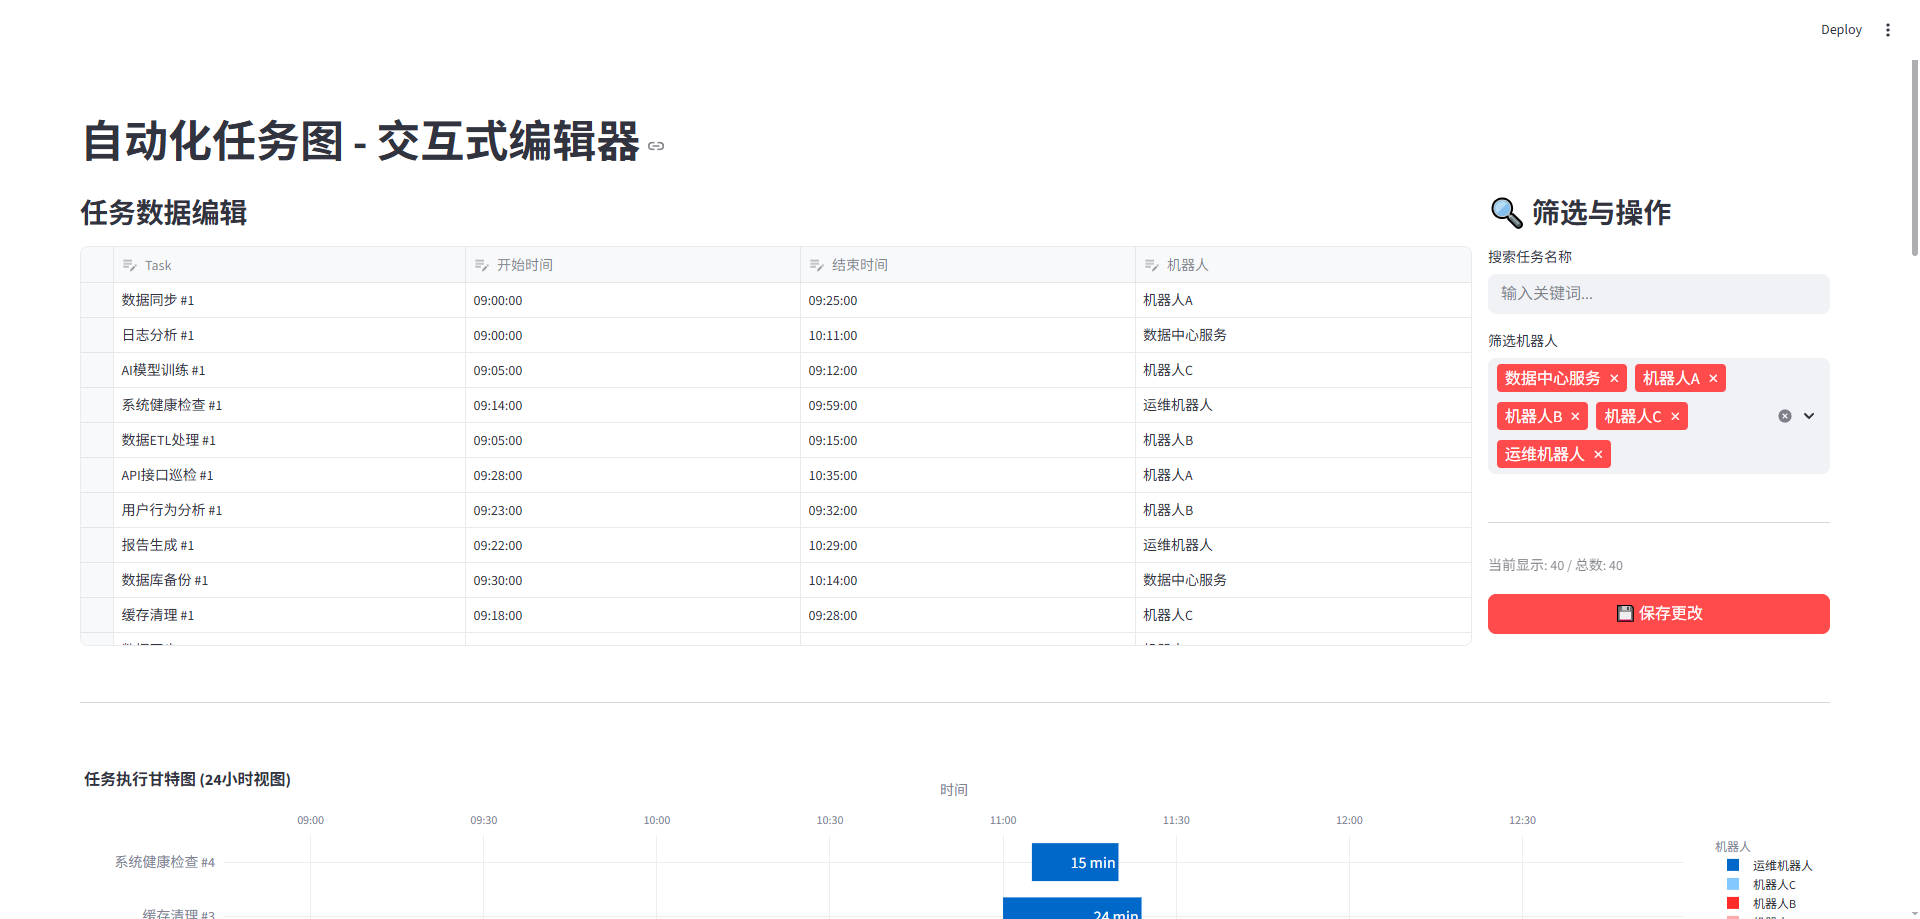
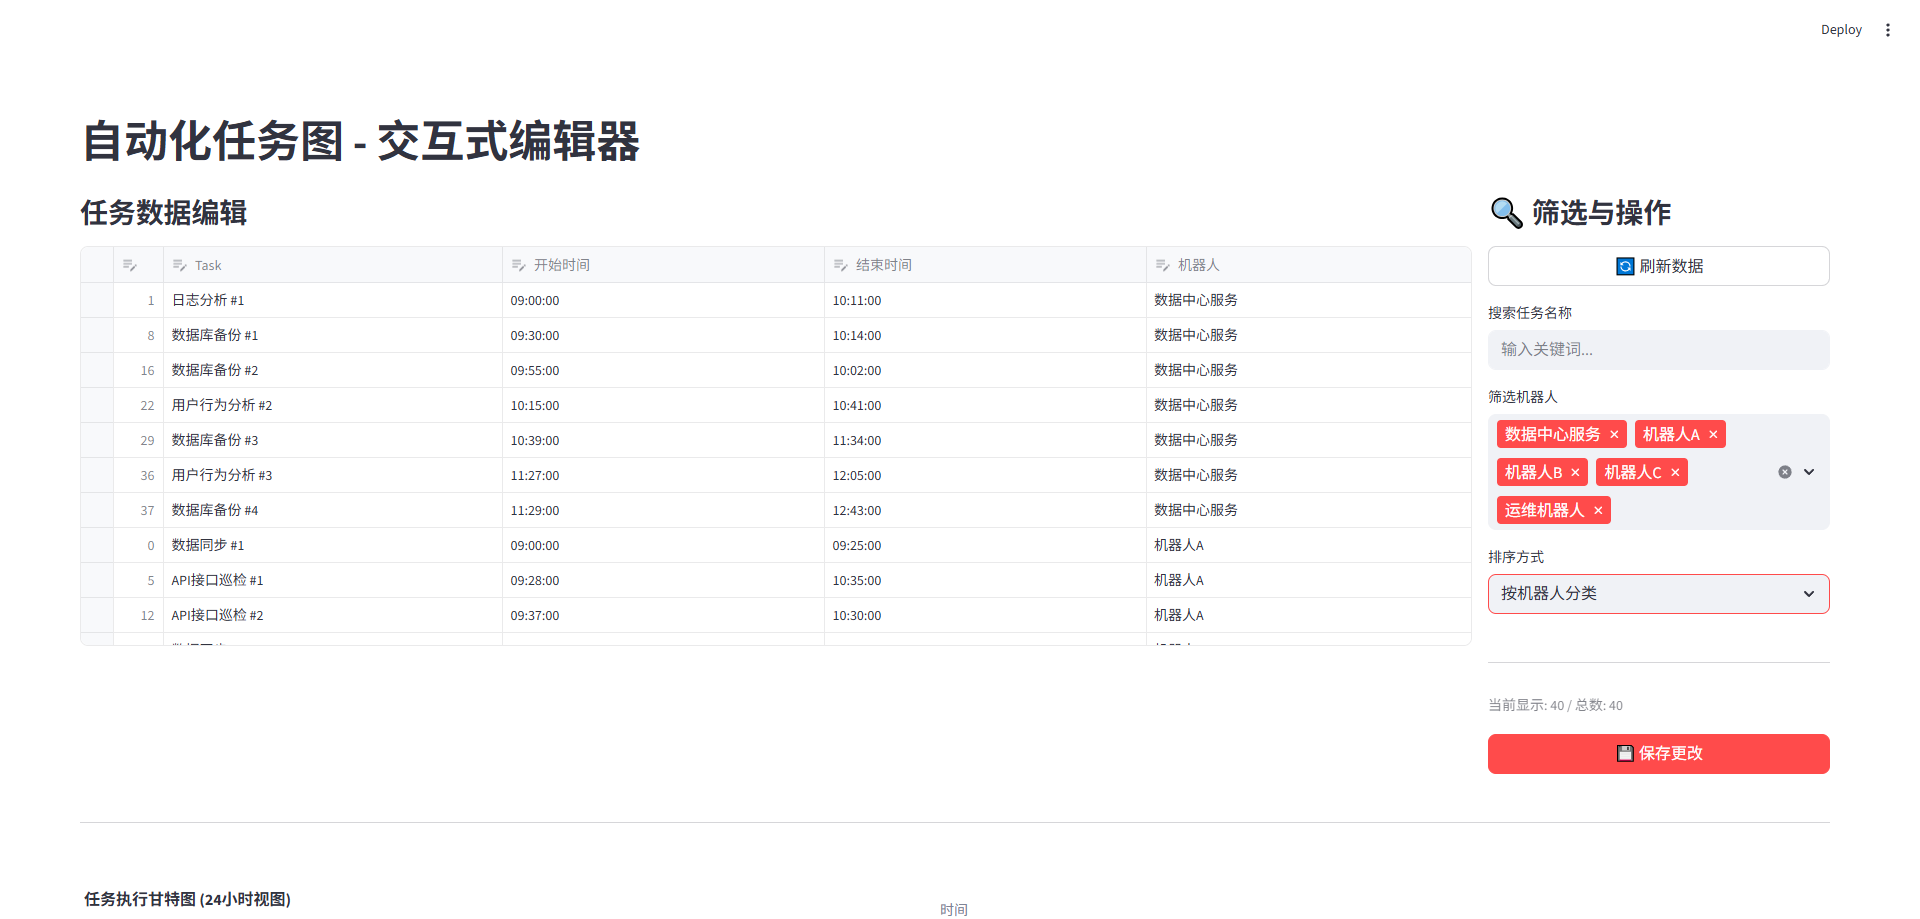
feat: 新增数据刷新和数据表排序功能

diff --git a/create_gantt.py b/create_gantt.py
@@ -116,12 +116,24 @@ if df_original is not None:
     with col_filter:
         st.subheader("🔍 筛选与操作")
 
+        # [新增] 刷新按钮
+        if st.button("🔄 刷新数据", use_container_width=True):
+            st.cache_data.clear()
+            st.rerun()
+
         # A. 任务搜索
         search_term = st.text_input("搜索任务名称", placeholder="输入关键词...")
 
         # B. 机器人过滤
         all_bots = sorted(df_original["Bot"].dropna().unique().tolist())
         selected_bots = st.multiselect("筛选机器人", all_bots, default=all_bots)
+
+        # [新增] 排序选项
+        sort_option = st.selectbox(
+            "排序方式",
+            options=["按机器人分类", "按开始时间"],
+            index=0
+        )
 
         st.divider()  # 分割线
 
@@ -136,6 +148,12 @@ if df_original is not None:
         df_filtered = df_filtered[
             df_filtered["Task"].str.contains(search_term, case=False, na=False)
         ]
+
+    # [新增] 应用排序
+    if sort_option == "按开始时间":
+        df_filtered = df_filtered.sort_values(by=["Start", "Bot"])
+    else:
+        df_filtered = df_filtered.sort_values(by=["Bot", "Start"])
 
     # --- 第三步：渲染编辑器 (左侧) ---
     with col_editor:

diff --git a/GEMINI.md b/GEMINI.md
@@ -10,13 +10,13 @@ The project uses **Plotly** for rendering interactive charts and **Pandas** for 
 
 ## Key Files
 
-*   **`create_gantt.py`**: The main entry point for the interactive Streamlit application. It loads data from `tasks.csv`, displays an editable table, and renders a reactive Gantt chart.
-*   **`create_gantt_noStreamlit.py`**: A standalone script that reads `tasks.csv` and generates a static `Tasks.html` file containing the Gantt chart. Useful for automated reporting or when a web server isn't needed.
-*   **`tasks.csv`**: The data source file. Stores task information including name, start time, end time, and assigned bot/resource.
-*   **`xlsx2csv.py`**: A utility script to convert an Excel file (`xlsxname.xlsx`) to the required `tasks.csv` format.
+*   **`create_gantt.py`**: The main entry point for the interactive Streamlit application. It loads data from `ShadowBot_tasks.csv`, displays an editable table, and renders a reactive Gantt chart.
+*   **`create_gantt_noStreamlit.py`**: A standalone script that reads `ShadowBot_tasks.csv` and generates a static `Tasks.html` file containing the Gantt chart. Useful for automated reporting or when a web server isn't needed.
+*   **`ShadowBot_tasks.csv`**: The data source file. Stores task information including name, start time, end time, and assigned bot/resource.
+*   **`xlsx2csv.py`**: A utility script to convert an Excel file (`xlsxname.xlsx`) to the required `ShadowBot_tasks.csv` format.
 *   **`Tasks.html`**: The output file generated by `create_gantt_noStreamlit.py`.
 
-## Data Format (`tasks.csv`)
+## Data Format (`ShadowBot_tasks.csv`)
 
 The system relies on a CSV file with the following columns:
 *   **`Task`**: Name or identifier of the task.
@@ -41,7 +41,7 @@ Data Sync,2025-10-22 09:00:00,2025-10-22 09:25:00,Bot A
 streamlit run create_gantt.py
 ```
 *   Access the interface at `http://localhost:8501`.
-*   Changes made in the UI can be saved back to `tasks.csv`.
+*   Changes made in the UI can be saved back to `ShadowBot_tasks.csv`.
 
 ### Generating Static Charts
 ```bash
@@ -50,7 +50,7 @@ python create_gantt_noStreamlit.py
 *   Outputs to `Tasks.html`.
 
 ### Data Conversion
-To convert an Excel file named `xlsxname.xlsx` to `tasks.csv`:
+To convert an Excel file named `xlsxname.xlsx` to `ShadowBot_tasks.csv`:
 ```bash
 python xlsx2csv.py
 ```

diff --git a/README.md b/README.md
@@ -9,8 +9,9 @@
 ## 主要特性
 
 - **Web应用界面**: 无需运行零散的脚本，通过一个命令启动一个完整的Web服务。
-- **实时编辑与预览**: 在网页上提供一个类似Excel的表格，对任务数据的任何修改（增、删、改）都会**即时**反映在下方的甘特图上。
-- **强大的筛选功能**: 集成**任务名称模糊搜索**和**机器人多选过滤**功能，帮助用户快速定位和管理特定任务。
+- **实时编辑与管理**: 在网页上提供一个类似Excel的表格，允许用户**直接在浏览器中实时编辑、添加或删除任务数据**，并一键将修改保存回源文件。
+- **强大的筛选与排序**: 集成**任务名称模糊搜索**、**机器人多选过滤**以及**按时间/机器人排序**功能，帮助用户快速定位和管理特定任务。
+- **数据热更新**: 新增“刷新数据”按钮，支持在后台手动修改CSV文件后，无需重启服务即可一键同步前端显示。
 - **保存更改**: “保存更改”按钮现已集成在**右侧的筛选与操作面板**中，用户可以随时将网页上的所有修改**持久化**写回 `tasks.csv` 文件。
 - **优化甘特图可视化**: 任务条的粗细、文字大小、与任务名称的对齐都经过优化，提供更清晰易读的视图。
 - **动态时间轴**: 时间轴默认显示所有任务的实际跨度（前后有缓冲），并支持通过滑块进行独立缩放，便于查看分钟级任务细节。
@@ -47,11 +48,12 @@
 3.  **在浏览器中操作**:
     -   命令运行后，浏览器会自动打开一个新的标签页（通常是 `http://localhost:8501`）。
     -   页面现在分为**左右两栏**：
-        -   **左侧 (数据编辑区)**：提供类似Excel的表格，您可以像操作Excel一样修改、添加或删除任务。
+        -   **左侧 (数据编辑区)**：提供类似Excel的表格，您可以像操作Excel一样修改、添加或删除任务（选中行后按Del键或使用表格工具栏）。
         -   **右侧 (筛选与操作面板)**：
-            -   使用“搜索任务名称”文本框进行模糊搜索。
-            -   通过“筛选机器人”多选框选择要显示的机器人任务。
-            -   点击顶部的“💾 保存更改”按钮，即可将所有变动（即使是在筛选视图下编辑的）合并并写入 `tasks.csv` 文件。
+            -   **刷新数据**：点击“🔄 刷新数据”按钮，重新加载后台文件的最新内容。
+            -   **搜索与筛选**：使用文本框搜索任务名称，或通过下拉框筛选特定机器人。
+            -   **排序**：通过“排序方式”选择按“机器人分类”或“开始时间”排列数据。
+            -   **保存**：点击“💾 保存更改”按钮，即可将所有变动（即使是在筛选视图下编辑的）合并并写入 `tasks.csv` 文件。
     -   下方的**甘特图会实时更新**以反映数据的改动。
 
 4.  **停止应用**: